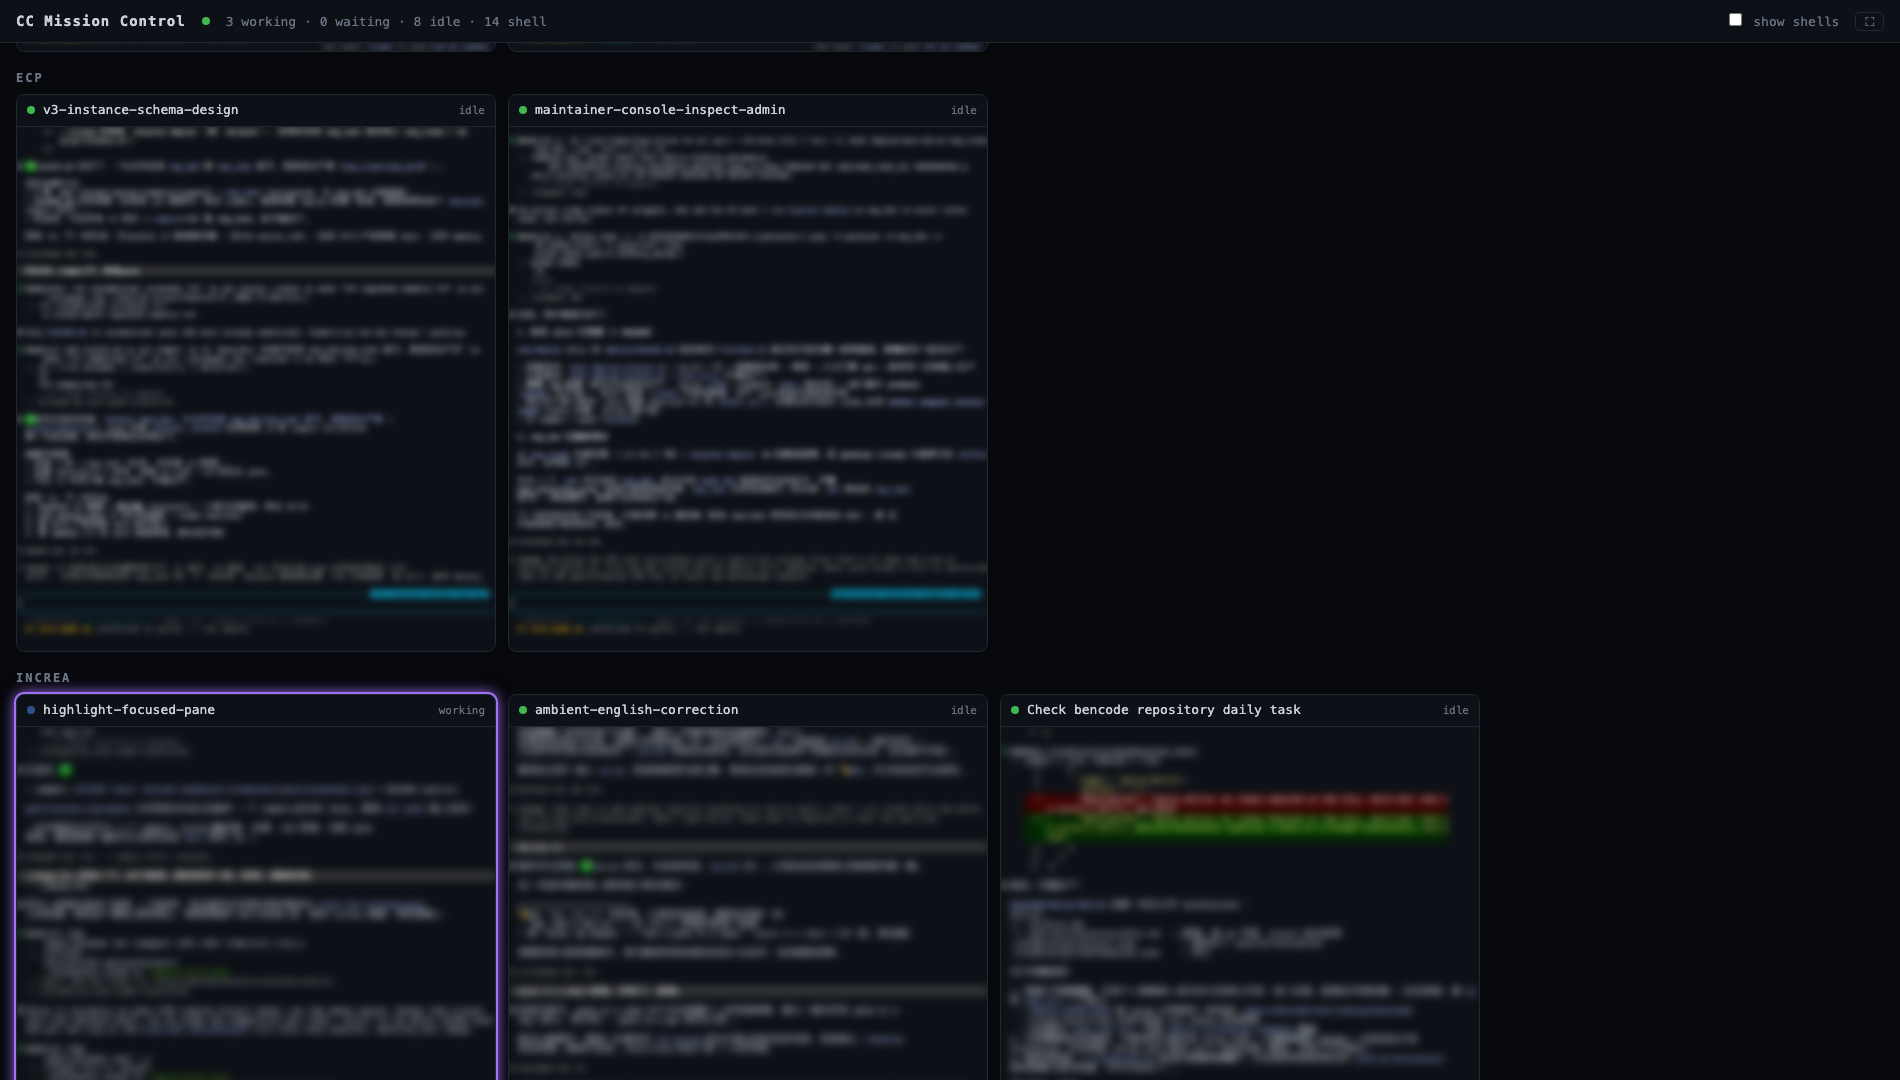
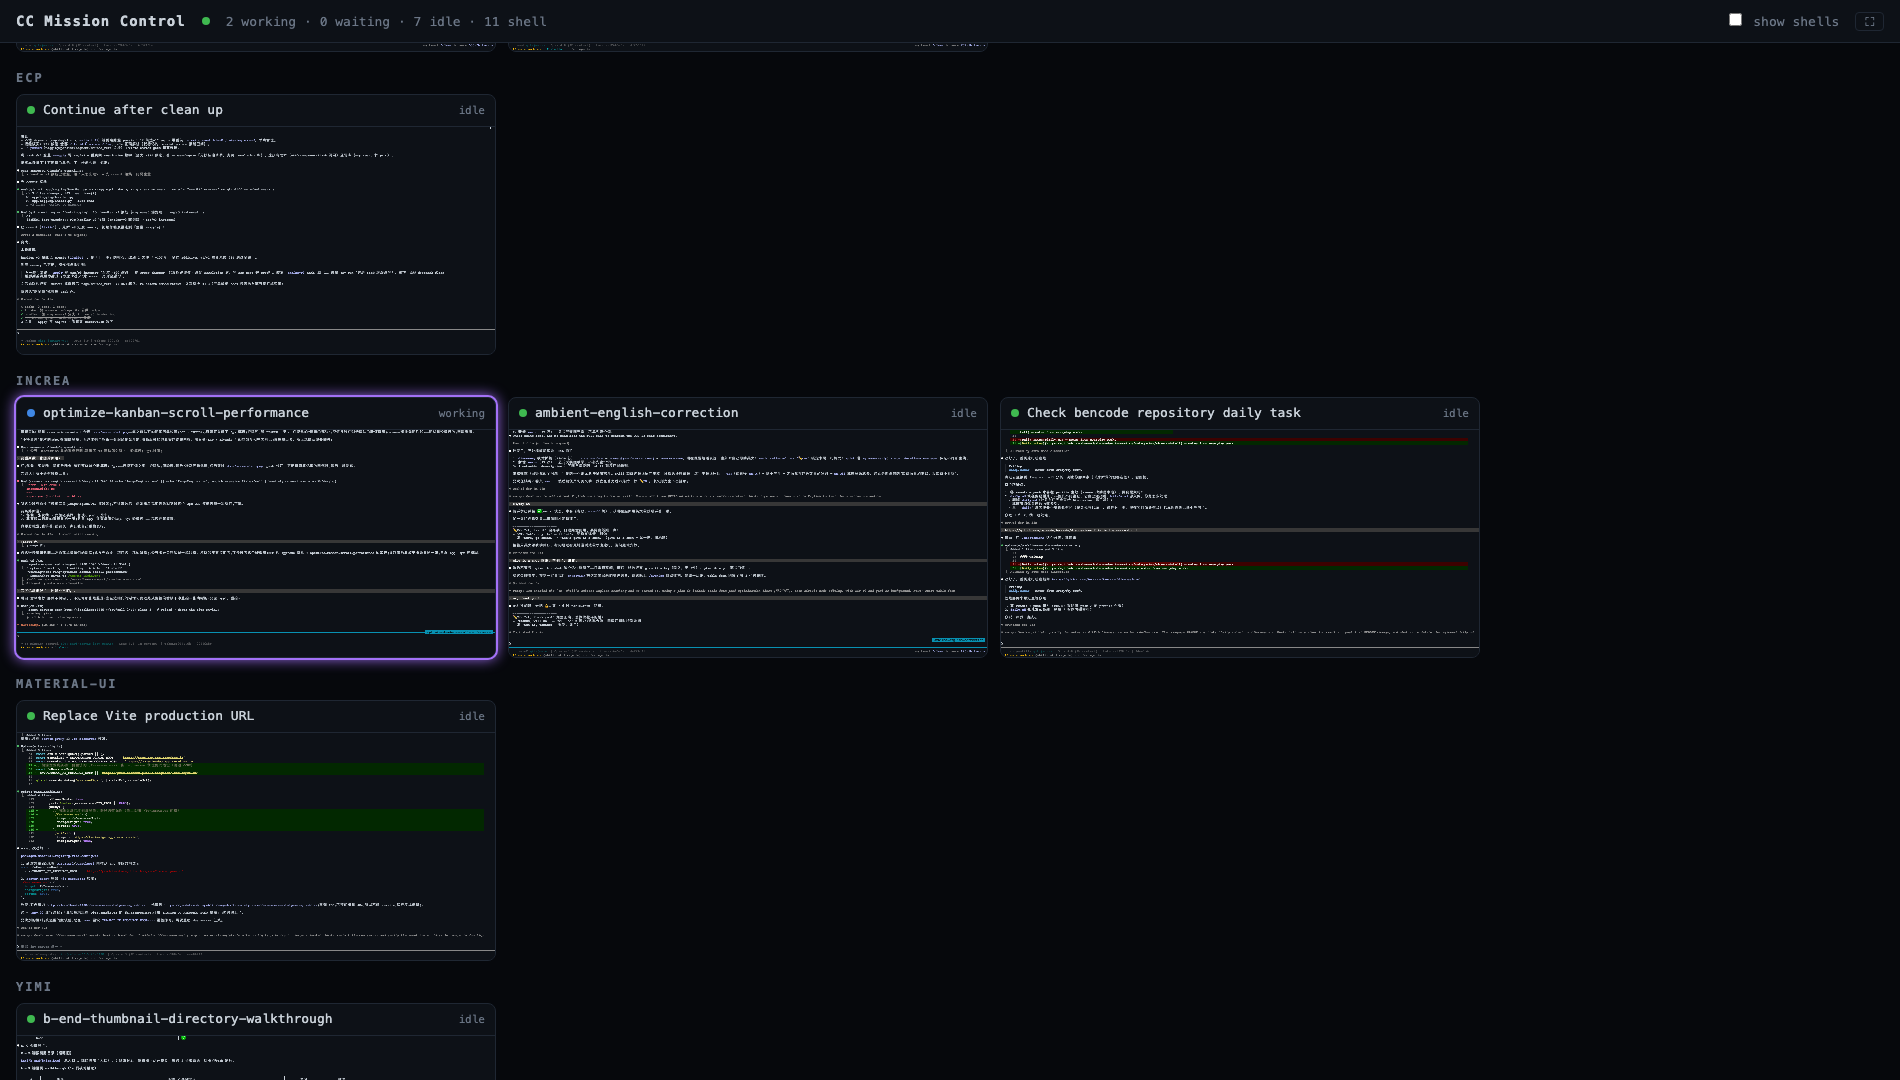
docs: use a clear (unblurred) dashboard screenshot

diff --git a/README.md b/README.md
@@ -8,7 +8,7 @@ When you run a dozen Claude Code sessions across WezTerm workspaces and tabs, yo
 
 ![CC Mission Control dashboard](docs/screenshot.png)
 
-> Live capture of a real session wall, grouped by workspace. The violet ring marks the pane currently focused in WezTerm; waiting sessions pulse amber with an Approve button right on the tile. (Terminal contents blurred for this screenshot.)
+> Live capture of a real session wall, grouped by workspace. The violet ring marks the pane currently focused in WezTerm; waiting sessions pulse amber with an Approve button right on the tile.
 
 ## Features
 